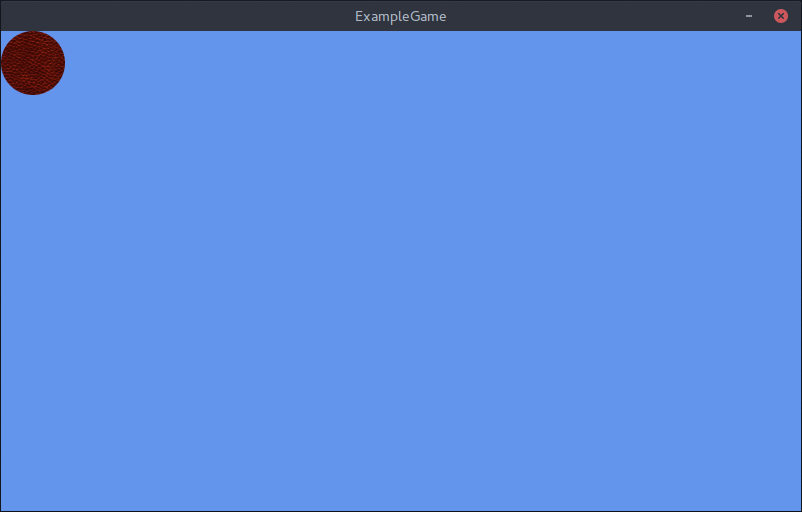
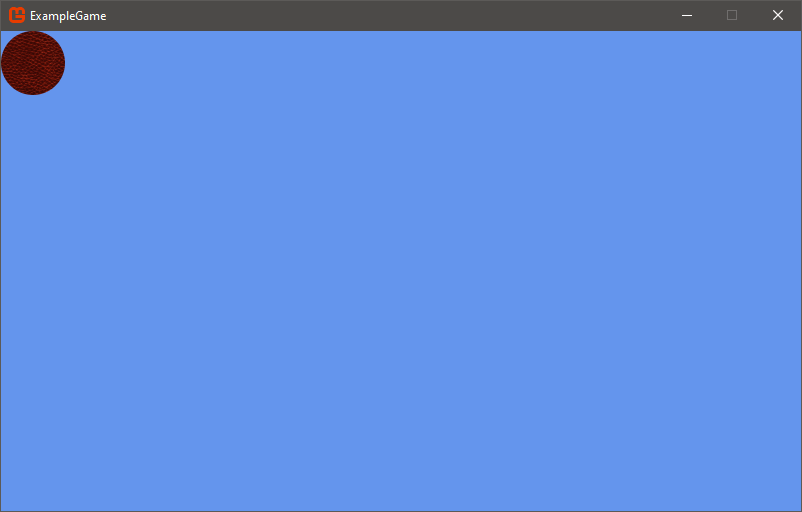
Updated images to new docs standard for Windows (#7276)
* Updated images to new docs standard.

Additional tasks:

* Update code docs to 3.8 standards
* removed any lingering "pipeline" references
* Removed redundant pipeline images

Changed region(s): [[0.0, 0.0, 1.0, 1.0]]

diff --git a/Documentation/articles/getting_started/3_adding_content.md b/Documentation/articles/getting_started/3_adding_content.md
@@ -22,11 +22,11 @@ Now open up your game project and look at the Solution explorer window. Expand t
 
 ![Open Content](~/images/getting_started/3_open_content.png)
 
-You should now see the Pipeline Editor window open up. If it does not open up (you see a text file open), then you can right-click on **Content.mgcb** and select **Open With**, then select **MonoGame Pipeline** in the list, click **Set as Default** and then click **OK**.
+You should now see the MGCB Editor window open up. If it does not open up (you see a text file open), then you can right-click on **Content.mgcb** and select **Open With**, then select **mgcb-editor-wpf** in the list, click **Set as Default** and then click **OK**.
 
-> If you do not see the **MonoGame Pipeline Tool** option when you right-click and select **Open With**, then please review the [Tools documentation](~/articles/tools/tools.md) for installing the Pipeline tool for your operating system.
+> If you do not see the **mgcb-editor-wpf** option when you right-click and select **Open With**, then please review the [Tools documentation](~/articles/tools/tools.md) for installing the MGCB Editor tool for your operating system.
 
-![Pipeline Editor](~/images/getting_started/3_pipeline_tool.png)
+![MGCB Editor](~/images/getting_started/3_mgcb_editor_tool.png)
 
 Your game content is managed from this external tool. You can add content to your game in one of the following ways:
 
@@ -42,7 +42,7 @@ You should now be prompted to select a file. Select the “ball.png” image tha
 
 ![Copy Content](~/images/getting_started/3_copy_content.png)
 
-Now click **Save** toolbar button and close the Pipeline tool.
+Now click **Save** toolbar button and close the MGCB Editor tool.
 
 ![Save Content](~/images/getting_started/3_save_content.png)
 
@@ -57,7 +57,8 @@ public class Game1 : Game
 {
     Texture2D ballTexture;
 
-    GraphicsDeviceManager graphics;
+    private GraphicsDeviceManager _graphics;
+    private SpriteBatch _spriteBatch;
 ```
 
 Next find the LoadContent method and use it to retrieve the "ball" sprite from the Content project into the **ballTexture** private variable using the **Content.Load()** method and specifying the type of data we are requesting, in this case a Texture2D image:
@@ -66,7 +67,7 @@ Next find the LoadContent method and use it to retrieve the "ball" sprite from t
 protected override void LoadContent()
 {
     // Create a new SpriteBatch, which can be used to draw textures.
-    spriteBatch = new SpriteBatch(GraphicsDevice);
+    _spriteBatch = new SpriteBatch(GraphicsDevice);
 
     // TODO: use this.Content to load your game content here
     ballTexture = Content.Load<Texture2D>("ball");
@@ -91,9 +92,9 @@ protected override void Draw(GameTime gameTime)
     graphics.GraphicsDevice.Clear(Color.CornflowerBlue);
 
     // TODO: Add your drawing code here
-    spriteBatch.Begin();
-    spriteBatch.Draw(ballTexture, new Vector2(0, 0), Color.White);
-    spriteBatch.End();
+    _spriteBatch.Begin();
+    _spriteBatch.Draw(ballTexture, new Vector2(0, 0), Color.White);
+    _spriteBatch.End();
 
     base.Draw(gameTime);
 }

diff --git a/Documentation/articles/getting_started/4_adding_basic_code.md b/Documentation/articles/getting_started/4_adding_basic_code.md
@@ -20,8 +20,8 @@ Next let us initialize them. Find the **Initialize** method and add the followin
 
 ```csharp
 // TODO: Add your initialization logic here
-ballPosition = new Vector2(graphics.PreferredBackBufferWidth / 2,
-    graphics.PreferredBackBufferHeight / 2);
+ballPosition = new Vector2(_graphics.PreferredBackBufferWidth / 2,
+_graphics.PreferredBackBufferHeight / 2);
 ballSpeed = 100f;
 
 base.Initialize();
@@ -34,7 +34,7 @@ The last thing we need to do is modify the position the ball is getting drawn to
 Find the **Draw** method and update the **spriteBatch.Draw** call to:
 
 ```csharp
-spriteBatch.Draw(ballTexture, ballPosition, Color.White);
+_spriteBatch.Draw(ballTexture, ballPosition, Color.White);
 ```
 
 Now run the game.
@@ -44,7 +44,7 @@ Now run the game.
 As you can see the ball is not quite centered yet. This is because MonoGame uses (0, 0) as the origin point of the image for drawing by default (Top Left hand corner). We can modify this by taking into account the height and width of the image when drawing, as follows:
 
 ```csharp
-spriteBatch.Draw(
+_spriteBatch.Draw(
     ballTexture,
     ballPosition,
     null,

diff --git a/Documentation/articles/content/adding_ttf_fonts.md b/Documentation/articles/content/adding_ttf_fonts.md
@@ -7,11 +7,9 @@ MonoGame supports more than one method of using fonts, the following is an expla
 To be able to use a TrueType font, MonoGame requires the TrueType font file and a .spritefont file.
 TrueType fonts may be installed on the system, or added manually in the same directory as the .spritefont file.
 
-1. Create the .spritefont file.
+1. Create the .spritefont file by selecting "Edit -> Add -> New Item" from the MGCB Editor menu, then select **SpriteFont Description** from the list and click **Create**.
 
-  ![Adding TTF fonts step 1](~/images/adding_ttf_fonts_step_1.PNG)
-
-  ![Adding TTF fonts step 2](~/images/adding_ttf_fonts_step_2.PNG)
+  ![Adding TTF fonts step 2](~/images/content/adding_ttf_fonts.PNG)
 
 1. Open the newly created .spritefont file in your text editor of choice, find this line and change it to your selected .ttf font.
 If the font is installed on the system, just type the name of the font.

diff --git a/Documentation/articles/introduction/requirements.md b/Documentation/articles/introduction/requirements.md
@@ -28,7 +28,7 @@ You will need a copy of [Visual Studio for Mac](https://visualstudio.microsoft.c
 
 Additionally, you will need to install the [.NET Core SDK from here](https://dotnet.microsoft.com/download), SDK Versions 3.1 and above.
 
-For editing content you also need the [MGCB Editor](#monogame-content-pipeline-tool-mgcb-editor) GUI to manage your content.
+For editing content you also need the [MGCB Editor](~/articles/tools/mgcb_editor.md) GUI to manage your content.
 
 ## For desktop platforms using only the CLI (all supported operating systems)
 
